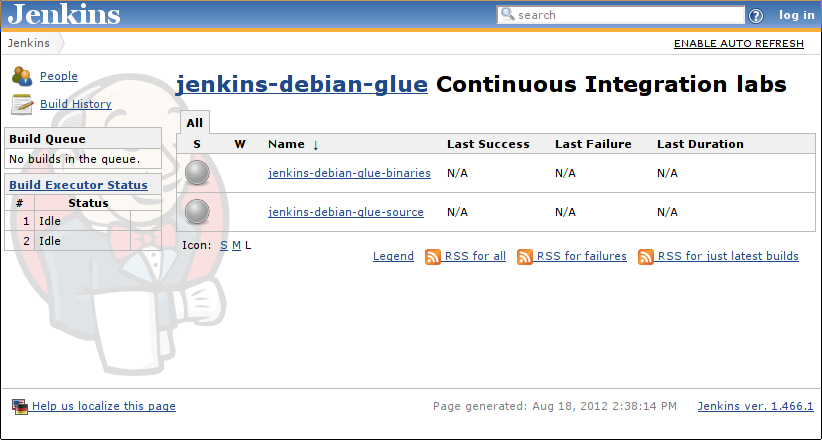
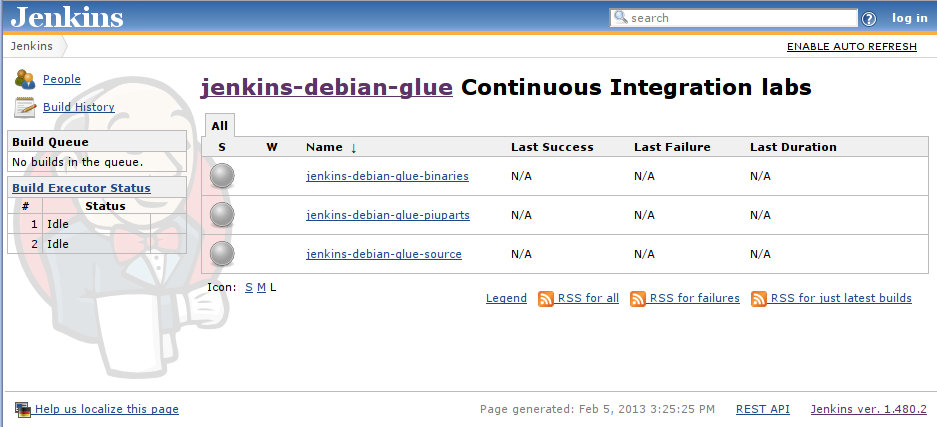
update screenshots + docs for piuparts job

diff --git a/getting_started/automatic/index.html b/getting_started/automatic/index.html
@@ -66,6 +66,10 @@
     </a>
   </div>
 
+  <!--
+  http://wiki.debian.org/Cloud/AmazonEC2Image
+  -->
+
   <p>All you need to do to automatically deploy the stack is <strong>execute the following two commands</strong>:</p>
 
 <pre>
@@ -102,14 +106,15 @@ Now point your browser to http://$SERVER_IP:8080
     change it.</strong>
   </div>
 
-  <p>Return to the start page again and go to the <i>jenkins-debian-glue-source</i>
-  Jenkins job and select <i>Build now</i>. A few seconds later the job should be
-  finished and automatically triggers the <i>jenkins-debian-glue-binaries</i>
-  Jenkins job. This will take a while for its first run (setting up the
+  <p>Return to the start page again and go to the
+  <i>jenkins-debian-glue-source</i> Jenkins job and select <i>Build now</i>. A
+  few seconds later the job should be finished and automatically triggers the
+  <i>jenkins-debian-glue-binaries</i> and <i>jenkins-debian-glue-piuparts</i>
+  Jenkins jobs. This will take a while for its first run (setting up the
   cowbuilder environment for you).</p>
 
   <p>Once the <i>jenkins-debian-glue-binaries</i> Jenkins job has finished as
-  well you should have two Jenkins jobs marked as blue (AKA success):</p>
+  well you should have Jenkins jobs marked as blue (AKA success):</p>
 
   <ul class="thumbnails">
   <li class="span3">
